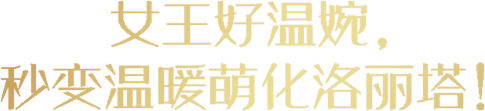
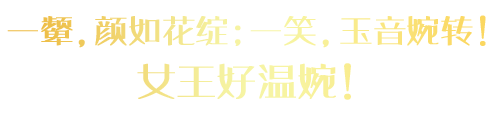
m

diff --git a/html_views/main.html b/html_views/main.html
@@ -21,7 +21,7 @@
     <audio id="bgMusic" preload="auto" loop="loop">
         <source src="img/backMuisc.mp3" type="audio/mpeg" />
     </audio>
-     <audio id="openBox" preload="auto">
+    <audio id="openBox" preload="auto">
         <source src="img/mofa.mp3" type="audio/mpeg" />
     </audio>
     <audio id="chilun" autoplay preload loop="loop">
@@ -47,7 +47,7 @@
                         <div class="loading-line"></div>
                     </div>
                     <div class="page1_logo_bg"></div>
-                    <div class="page1_logo"><img src="img/logo@2x.png" width="100%"></div>
+                    <div class="page1_logo"><img src="img/logo@2x.png" width="100%"><div class="hand"></div></div>
                 </div>
                 <div class="page1_bottom">
                     <div class="gear1 bottom_gear1 gear-animateR"></div>
@@ -73,22 +73,24 @@
                     <div class="swiper-wrapper">
                         <section class="swiper-slide">
                             <div class="baohe-guang"></div>
-                            <div class="baohe-box"><img src="img/xfhf@2x.png"></div>
+                            <div class="baohe-box"><img src="img/xfhf_subTitle@2x.png">
+                                <div class="hand"></div>
+                            </div>
                             <div class="baohe-box-click" id="xfhf"></div>
                         </section>
                         <section class="swiper-slide">
                             <div class="baohe-guang"></div>
-                            <div class="baohe-box"><img src="img/kqhl@2x.png"></div>
+                            <div class="baohe-box"><img src="img/kqhl_subTitle@2x.png"><div class="hand"></div></div>
                             <div class="baohe-box-click" id="kqhl"></div>
                         </section>
                         <section class="swiper-slide">
                             <div class="baohe-guang"></div>
-                            <div class="baohe-box"><img src="img/grhl@2x.png"></div>
+                            <div class="baohe-box"><img src="img/grhl_subTitle@2x.png"><div class="hand"></div></div>
                             <div class="baohe-box-click" id="grhl"></div>
                         </section>
                         <section class="swiper-slide">
                             <div class="baohe-guang"></div>
-                            <div class="baohe-box"><img src="img/sthl@2x.png"></div>
+                            <div class="baohe-box"><img src="img/sthl_subTitle@2x.png"><div class="hand"></div></div>
                             <div class="baohe-box-click" id="sthl"></div>
                         </section>
                     </div>
@@ -113,7 +115,7 @@
                 <div class="box-area">
                     <div class="baohe-guang"></div>
                     <div class="baohe-goods"><img src="img/xfhf_goods@2x.png" width="100%"></div>
-                    <div class="baohe-box"><img src="img/xfhf_subTitle@2x.png"></div>
+                    <div class="baohe-box"><img src="img/xfhf_subTitle@2x.png"><div class="hand"></div></div>
                     <div class="baohe-box-click"></div>
                 </div>
                 <div class="baohe-des"><img src="img/xfhf_des@2x.png" width="100%"></div>
@@ -131,7 +133,7 @@
                 <div class="box-area">
                     <div class="baohe-guang"></div>
                     <div class="baohe-goods"><img src="img/kqhl_goods@2x.png" width="100%"></div>
-                    <div class="baohe-box"><img src="img/kqhl_subTitle@2x.png"></div>
+                    <div class="baohe-box"><img src="img/kqhl_subTitle@2x.png"><div class="hand"></div></div>
                     <div class="baohe-box-click"></div>
                 </div>
                 <div class="baohe-des"><img src="img/kqhl_des@2x.png" width="100%"></div>
@@ -149,7 +151,7 @@
                 <div class="box-area">
                     <div class="baohe-guang"></div>
                     <div class="baohe-goods"><img src="img/grhl_goods@2x.png" width="100%"></div>
-                    <div class="baohe-box"><img src="img/grhl_subTitle@2x.png"></div>
+                    <div class="baohe-box"><img src="img/grhl_subTitle@2x.png"><div class="hand"></div></div>
                     <div class="baohe-box-click"></div>
                 </div>
                 <div class="baohe-des"><img src="img/grhl_des@2x.png" width="100%"></div>
@@ -167,7 +169,7 @@
                 <div class="box-area">
                     <div class="baohe-guang"></div>
                     <div class="baohe-goods"><img src="img/sthl_goods@2x.png" width="100%"></div>
-                    <div class="baohe-box"><img src="img/sthl_subTitle@2x.png"></div>
+                    <div class="baohe-box"><img src="img/sthl_subTitle@2x.png"><div class="hand"></div></div>
                     <div class="baohe-box-click"></div>
                 </div>
                 <div class="baohe-des"><img src="img/sthl_des@2x.png" width="100%"></div>

diff --git a/html_views/index.html b/html_views/index.html
@@ -259,10 +259,20 @@
       .transition{
         transition: all 0.3s;
       }
+      .tips-text{
+        font-size: 12px;
+        text-align: center;
+        color:#fff;
+        width: 100%;
+        position: absolute;
+        left:0;
+        bottom:8%;
+        opacity: 0.8
+      }
     </style>
   </head>
   <body>
-    <audio id="bgMusic" autoplay preload loop="loop" src="img/msg.mp3"></audio>
+    <audio id="bgMusic" autoplay preload src="img/msg.mp3"></audio>
 
     <div class="i-page Js_page">
       <div class="i-home Js_home">
@@ -276,6 +286,7 @@
           <div class="i-more f12">滑动来查看</div>
         </div>
         <div class="i-gif"></div>
+        <div class="tips-text">向右滑动</div>
       </div>
       <div class="i-main Js_main">
         <div class="i-content">
@@ -283,7 +294,8 @@
           <div class="ic-list">
             <div class="i-list-img"></div>
             <div class="i-list-text">
-              <p class="f15">艾瑞巴蒂！小主我的头发最近老是分叉发黄，推荐个地方，一起去做护理呗～</p>
+              <p class="f15">艾瑞巴蒂！晚上7:00女主&女王趴，大悦城后边freehouse轰趴馆走起，烤串自助哈，爱吃腰子@后厂村路丽莎长公主有口福了
+</p>
               <i class="icon-jt"></i>
             </div>
           </div>
@@ -291,7 +303,8 @@
           <div class="ic-list">
             <div class="i-list-img i02"></div>
             <div class="i-list-text">
-              <p class="f15">去京东女王宫啊！！我的牙也想去那里看看……</p>
+              <p class="f15">What？！在廊坊老姨家视察呢，来不及回家换衣服化妆
+</p>
               <i class="icon-jt"></i>
             </div>
           </div>
@@ -299,7 +312,8 @@
           <div class="ic-list">
             <div class="i-list-img i03"></div>
             <div class="i-list-text">
-              <p class="f15">还能整牙？那人家的“大姨妈”可不可以照顾一下嘛（害羞）</p>
+              <p class="f15">给你留位置，quick！！去的各位女王扣1
+</p>
               <i class="icon-jt"></i>
             </div>
           </div>
@@ -307,7 +321,8 @@
           <div class="ic-list">
             <div class="i-list-img i04"></div>
             <div class="i-list-text">
-              <p class="f15">哎呦呦，刚好皮肤有点干，+1</p>
+              <p class="f15">1。。。。。。叫我家王太后过来照顾一下小王子，我得大捯饬了，现在简直没法看
+</p>
               <i class="icon-jt"></i>
             </div>
           </div>
@@ -315,18 +330,19 @@
           <div class="ic-list">
             <div class="i-list-img i05"></div>
             <div class="i-list-text">
-              <p class="f15">what？！京东女王宫啊？我也要去！+好多1</p>
+              <p class="f15">111111111111我上车了，正敷面膜呢！@北四环女王储
+</p>
               <i class="icon-jt"></i>
             </div>
           </div>
-
+<!-- 
           <div class="ic-list">
             <div class="i-list-img i06"></div>
             <div class="i-list-text">
               <p class="f15">先做个Spa，有人来没？？？？+1  ！！！！？   </p>
               <i class="icon-jt"></i>
             </div>
-          </div>
+          </div> -->
 
         </div>
         <div class="bottom-btn Js_btn">
@@ -462,7 +478,7 @@
               audio.pause();
               audioAutoPlay();
               if(i == $(".ic-list").length-1){
-                $(".btn-center").html("+1");
+                $(".btn-center").html("＋1，我去倒饬一下，马上变身");
                 setTimeout(function(){
                   $(".send-btn").show();
                   $(".Js_tipshow").on("click",function(){tipshow()})

diff --git a/dev_webroot/css/common.css b/dev_webroot/css/common.css
@@ -437,7 +437,7 @@ body {
     position: absolute;
     left: 50%;
     margin-left: -195px;
-    bottom: 10%;
+    bottom: 5%;
     width: 389px;
     height: 291px;
     z-index: 11;
@@ -719,6 +719,19 @@ body {
     animation: rotateR 10s linear infinite;
     -webkit-animation: rotateR 10s linear infinite;
 }
+.hand {
+    width: 40px;
+    height: 54px;
+    background: url('../img/hand.png');
+    position: absolute;
+    left: 50%;
+    bottom:0%;
+    -webkit-animation: updown 1.2s infinite;
+    animation: updown 1.2s infinite;
+    background-size: contain;
+    z-index: 10;
+}
+
 
 @keyframes rotateR {
     from {
@@ -785,5 +798,31 @@ body {
     }
     to {
         opacity: 1
+    }
+}
+
+@keyframes updown {
+    0% {
+        transform: scale(1)
+    }
+    50% {
+        transform: scale(1.2)
+    }
+
+    100% {
+        transform: scale(1)
+    }
+}
+
+@-webkit-keyframes updown {
+    0% {
+        transform: scale(1)
+    }
+    50% {
+        transform: scale(1.2)
+    }
+
+    100% {
+        transform: scale(1)
     }
 }

diff --git a/html_views/share.html b/html_views/share.html
@@ -22,7 +22,7 @@
             <img width="95%" id="face" src="public/images/qeen_face_004.jpg" />
         </div>
     </div>
-    <div class="text" style="min-height: 60px;"> <img width="60%" src="public/images/nw01@2x.png" class="textImg1"> <img width="50%" src="public/images/nw02@2x.png" class="textImg2" style="display: none"></div>
+    <div class="text" style="min-height: 60px;"> <img width="50%" src="public/images/tumo.png" class="textImg1"> <img width="53%" src="public/images/nw02@2x.png" class="textImg2" style="display: none"></div>
     <div class="up_btn"> <a href="https://pro.m.jd.com/mall/active/42PDk3ZzddgGSk4WdK4GhFZ6E6iC/index.html"><img width="90%" src="public/images/enter_btn.png"> </a></div>
     <script type="text/javascript">
     if (document.location.hash.split('#')[1]) {

diff --git a/dev_webroot/js/index.js b/dev_webroot/js/index.js
@@ -36,7 +36,7 @@ var swiperV = new Swiper('.swiper-container-v', {
     direction: 'vertical',
     //effect: 'fade',
     allowTouchMove: false,
-    initialSlide: 0,
+    //initialSlide: 0,
     on: {
         slideChange: function() {
             console.log(this.activeIndex)
@@ -73,7 +73,7 @@ var swiperH = new Swiper('.swiper-container-h', {
     direction: 'horizontal',
     initialSlide: 0
 })
-move('.loading-line').translate(0, 0).duration('4s').end(function() {
+move('.loading-line').translate(0, 0).duration('5s').end(function() {
     $('.loading-title').hide()
     $('.loading-bar').hide()
     $('.page1_logo_bg').fadeIn()

diff --git a/dev_webroot/public/stylesheets/style.css b/dev_webroot/public/stylesheets/style.css
@@ -74,7 +74,7 @@ a {
 }
 
 #container{
-	width: 55%;
+	width: 60%;
 	margin: 20% auto 0
 }
 
